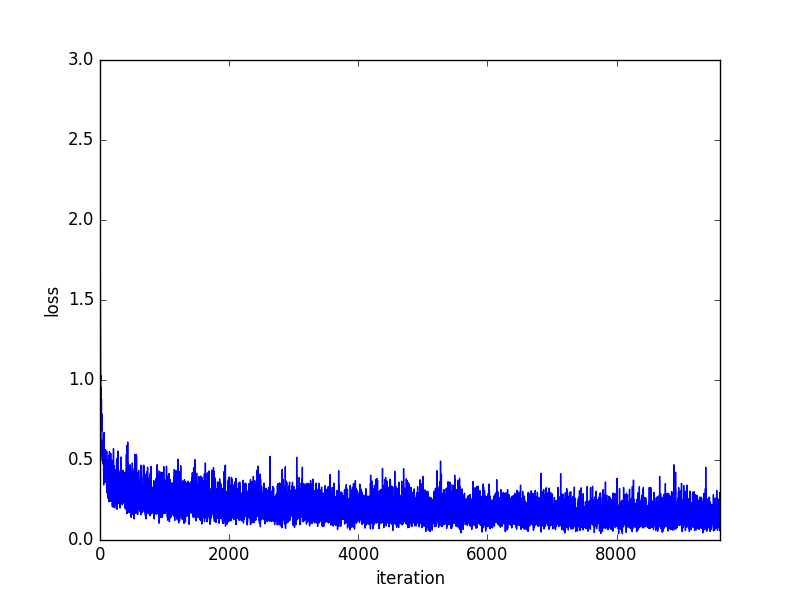
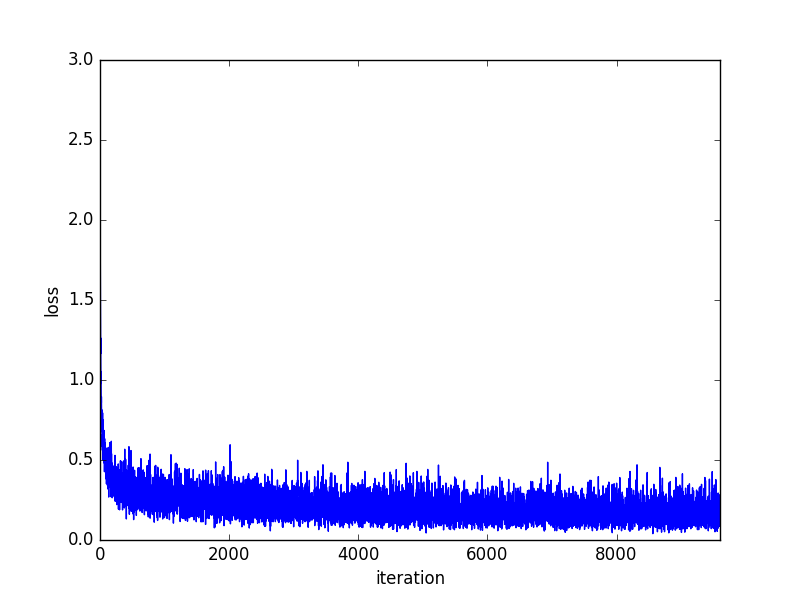
-p186 重み初期値の違いを比較

Changed region(s): [[0.125, 0.72, 0.9062, 0.9]]

diff --git a/chap6/two_layer_net.py b/chap6/two_layer_net.py
@@ -12,19 +12,35 @@ import time
 
 class TwoLayerNet:
 
-    def __init__(self, input_size, hidden_size, output_size, weight_init_std=0.01):
+    def __init__(self, input_size, hidden_size, output_size, weight_init_std=0.01, use_ReLU=True):
         # 重み初期化
         self.params = {}
-        self.params['W1'] = weight_init_std * np.random.randn(input_size, hidden_size)
+
+        weight_init_std1 = weight_init_std
+        if weight_init_std1 < 0:
+            if use_ReLU:
+                weight_init_std1 = np.sqrt(2 / input_size)
+            else:
+                weight_init_std1 = np.sqrt(1 / input_size)
+        self.params['W1'] = weight_init_std1 * np.random.randn(input_size, hidden_size)
         self.params['b1'] = np.zeros(hidden_size)
-        self.params['W2'] = weight_init_std * np.random.randn(hidden_size, output_size)
+
+        weight_init_std2 = weight_init_std
+        if weight_init_std2 < 0:
+            if use_ReLU:
+                weight_init_std2 = np.sqrt(2 / hidden_size)
+            else:
+                weight_init_std2 = np.sqrt(1 / hidden_size)
+        self.params['W2'] = weight_init_std2 * np.random.randn(hidden_size, output_size)
         self.params['b2'] = np.zeros(output_size)
 
         # レイヤ生成
         self.layers = OrderedDict()
         self.layers['Affine1'] = Affine(self.params['W1'], self.params['b1'])
-        self.layers['Relu1'] = Relu()
-        #  self.layers['Sigmoid1'] = Sigmoid()
+        if use_ReLU:
+            self.layers['Relu1'] = Relu()
+        else:
+            self.layers['Sigmoid1'] = Sigmoid()
         self.layers['Affine2'] = Affine(self.params['W2'], self.params['b2'])
 
         self.lastLayer = SoftmaxWithLoss()
@@ -168,6 +184,8 @@ def train_nn(name, optimizer, network):
     print("elapsed_time:{0}[sec]".format(str(elapsed_time)))
 
 if __name__ == '__main__':
+    """
+    """
     optimizers = {
         "SGD": SGD(lr=0.01),
         "Momentum": Momentum(lr=0.01, momentum=0.9),
@@ -175,9 +193,15 @@ if __name__ == '__main__':
         "Adam": Adam(lr=0.001, beta1=0.9, beta2=0.999),
     }
     for key in optimizers.keys():
-        train_nn(key, optimizers[key], TwoLayerNet(input_size=784, hidden_size=50, output_size=10))
+        train_nn(key, optimizers[key], TwoLayerNet(input_size=784, hidden_size=50, output_size=10, weight_init_std=0.01))
 
     train_nn("SGD_W0", SGD(lr=0.01), TwoLayerNet(input_size=784, hidden_size=50, output_size=10, weight_init_std=0))
     train_nn("SGD_W1", SGD(lr=0.01), TwoLayerNet(input_size=784, hidden_size=50, output_size=10, weight_init_std=1))
 
+    train_nn("SGD_Sig_0.01", SGD(lr=0.01),
+             TwoLayerNet(input_size=784, hidden_size=50, output_size=10, weight_init_std=0.01, use_ReLU=False))
+    train_nn("SGD_Sig_Xavier", SGD(lr=0.01),
+             TwoLayerNet(input_size=784, hidden_size=50, output_size=10, weight_init_std=-1, use_ReLU=False))
 
+    train_nn("SGD_0.01", SGD(lr=0.01), TwoLayerNet(input_size=784, hidden_size=50, output_size=10, weight_init_std=0.01))
+    train_nn("SGD_He", SGD(lr=0.01), TwoLayerNet(input_size=784, hidden_size=50, output_size=10, weight_init_std=-1))
